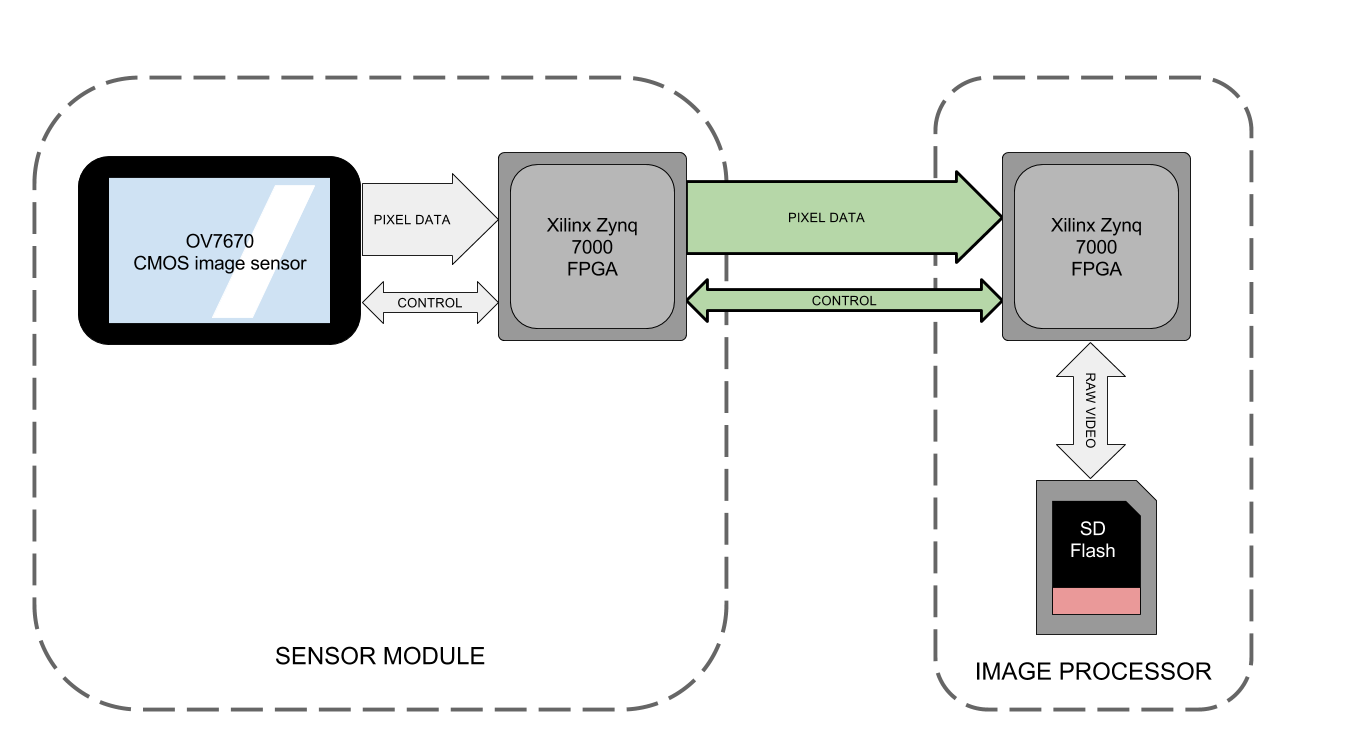
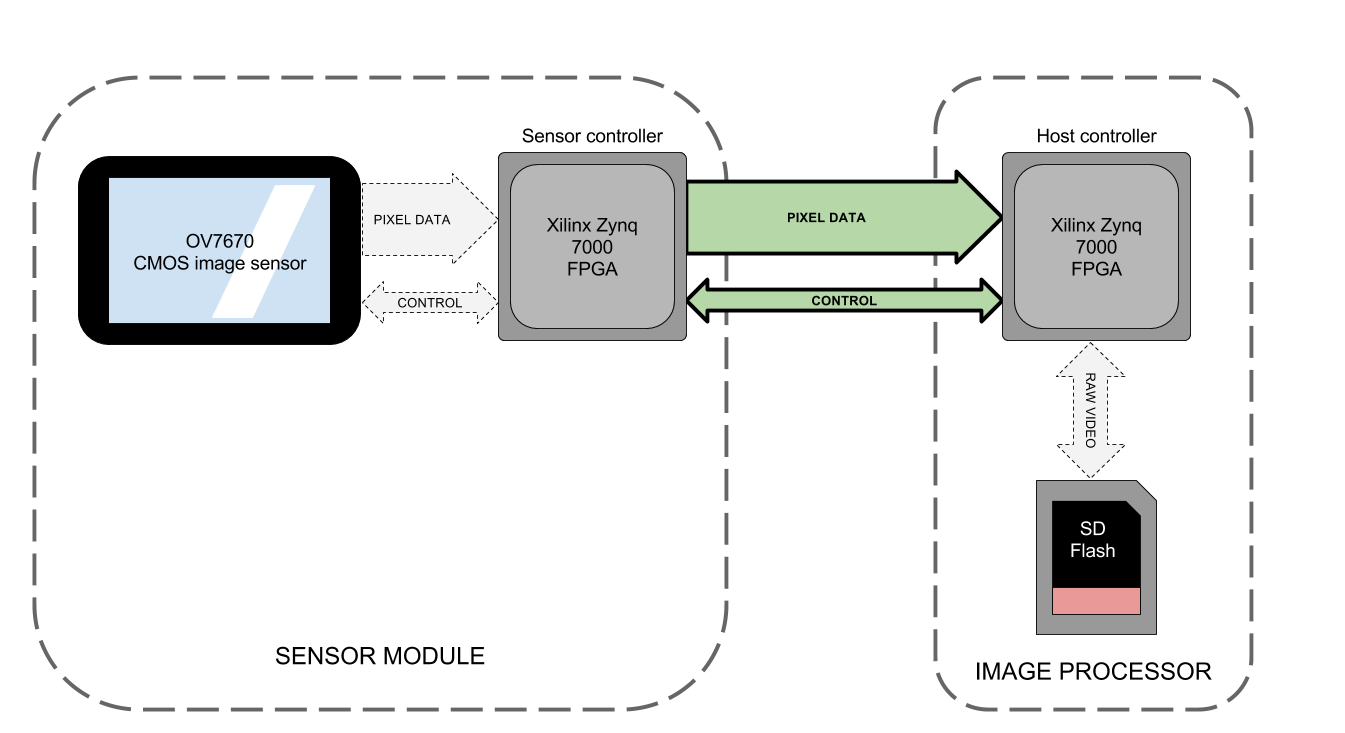
Further draft changes for review with Miles

diff --git a/interim/draft.md b/interim/draft.md
@@ -1,4 +1,4 @@
-# Contents
+# Table of Contents
 
 - Introduction
     + A brief history of camera technology
@@ -29,51 +29,45 @@
 
 # Introduction
 
-[Opening sentence...] cameras based on older film technologies have been confined to a diminishing list of niche uses, mainly in traditional film production and fine arts photography. At the heart of any digital camera lies the image sensor, which converts incident photons into electrical signals which can be digitised, processed and stored. 
-
-Modern cameras – both still-motion and video – have a multitude of upgrade options: lenses, filters and other accessories are all interchangeable, allowing for a high level of control. As one of the most important components of the system, the image sensor plays a vital role in the composure of the final image. It dictates not only the output resolution, but also light sensitivity, colour representation, frame-rate and crop-factor. In spite of its significance, only a handful of expensive cinema and medium-format cameras include interchangeable sensors; even then, these components are proprietary. Upgrading the sensor in a mainstream camera requires the purchase of an entirely new system.
+Modern cameras – both still-motion and video – feature a high level of upgradeability: lenses, filters and other accessories are all interchangeable, permitting finer control. As one of the most important components of the system, the image sensor plays a vital role in the composure of the final image. It dictates not only the output resolution, but also light sensitivity, colour representation, frame-rate and crop-factor. In spite of its significance, only a handful of expensive cinema and medium-format cameras include interchangeable sensors; even then, these components are proprietary. Upgrading the sensor in a mainstream camera requires the purchase of an entirely new system.
 
 This paper details an FPGA-based sensor-agnostic interface which can be used to connect any image sensor to any image processor, thus providing the basis for a truly modular and upgradeable camera system.
 
 ## A brief history of camera technology
 
-Modern cameras can trace their humble beginnings back to the camera obscura first described by ancient Chinese philosopher Mozi, an optical trick used to pass light from an external scene through a hole and project it on a surface [http://www.sennhs.org/ourpages/auto/2013/4/1/41446028/The%20Birth%20of%20Cameras.pdf]. In around 1816, French inventor Nicéphore Niépce managed to capture the first camera images using paper treated with silver chloride [Stokstad, Marilyn; David Cateforis; Stephen Addiss (2005). Art History (Second ed.). Upper Saddle River, New Jersey: Pearson Education. p. 964. ISBN 0-13-145527-3.]. Continuing his work, Niépce's partner Louis Daguerre developed the first conventional camera using a simple lens to focus light onto a silver-coated copper plate [http://preserve.harvard.edu/daguerreotypes/].
+Modern cameras can trace their humble beginnings back to the camera obscura first described by ancient Chinese philosopher Mozi, who discovered an optical trick to pass light from an external scene through a hole and project it on a surface.[1] In around 1816, French inventor Nicéphore Niépce managed to capture the first camera images using paper treated with silver chloride.[2] Continuing his work, Niépce's partner Louis Daguerre developed the first conventional camera using a simple lens to focus light onto a silver-coated copper plate.[3]
 
 ![Camera diagram](camera_physics_diagram.png)
 
-[Figure x] illustrates a very basic camera. Light from an external scene is passed through a lens and focussed through an aperture hole where it is inversely projected onto a photosensitive surface for capture. The focal length dictates the distance between the optical centre of the lens and the sensor when the lens is focused to infinity [http://martybugs.net/blog/blog.cgi/learning/Field-Of-View-And-More.html]. A shutter mechanism behind the aperture is used to control how much light hits the surface of the sensor, thus exposing the image. There are multiple ways to increase image exposure: expanding the aperture, holding the shutter open for longer, or increasing the ISO sensitivity of the sensor. Conversely, narrower apertures, shorter exposure times and lower sensitivities all decease the amount of light that hits the sensor, resulting in a darker image. 
+[Figure x] illustrates a very basic camera. Light from an external scene is focused by a lens and passed through an aperture hole where it is inversely projected onto a photosensitive surface for capture. The focal length dictates the distance between the optical centre of the lens and the sensor when the lens is focused to infinity.[4] A shutter mechanism behind the aperture is used to control how much light hits the surface of the sensor, thus exposing the image. There are multiple ways to increase image exposure: expanding the aperture, holding the shutter open for longer, or increasing the ISO sensitivity of the sensor. Inversely, narrower apertures, shorter exposure times and lower sensitivities all decease the amount of light that hits the sensor, resulting in a darker image. 
 
-Following the invention of the first transistor at Bell Laboratories in 1947[http://www.computerhistory.org/semiconductor/timeline/1947-invention.html], electronic devices could be dramatically reduced in size through the use of integrated circuits, paving the way for the start of the digital era. The first self-contained digital camera was developed by Steve Sasson of Eastman Kodak in 1975. Instead of using film, Sasson focused the light onto a state-of-the-art digital image sensor based on the first charge-coupled device (CCD) invented by Bell Laboratories scientists Willard Boyce and George Smith [http://www.nobelprize.org/nobel_prizes/physics/laureates/2009/popular-physicsprize2009.pdf]), the output of which was saved to a tape cassette for later viewing on a TV [https://web.archive.org/web/20130121194248/http://pluggedin.kodak.com/pluggedin/post/?id=687843].
+Following the invention of the first transistor at Bell Laboratories in 1947, electronic devices could be dramatically reduced in size through the use of integrated circuits, paving the way for the start of the digital era.[5] The first self-contained digital camera was developed by Steve Sasson of Eastman Kodak in 1975. Instead of using film, Sasson focused the light onto a state-of-the-art digital image sensor based on the first charge-coupled device (CCD) invented by Bell Laboratories scientists Willard Boyce and George Smith), the output of which was saved to a tape cassette for later viewing on a TV.[6][7]
 
-Today, there are many different camera formats available – one of the key differentiators being the area of the image sensor. A larger sensor can capture more light and thus the dynamic range is greatly increased, resulting in higher image quality [http://white.stanford.edu/~brian/papers/pdc/pixelSize_SPIE00.pdf]. This is true of both digital sensors, and their film counterparts. 
+Today, there are many different camera formats available – one of the key differentiators being the area of the image sensor. A larger sensor can capture more light and thus the dynamic range is greatly increased, resulting in higher image quality.[8] This is true of both digital sensors, and their film counterparts. 
 
 ## Motivation
 
-- High-end cameras are about control - adds extra degree of control
-- Potential to foster an open ecosystem (idealistic)
-- Market dominated by big players. Open specification allows smaller players to participate and serve smaller, more specialised markets which are too niche for big players.
+Professional camera systems are second-to-none when it comes to image quality and usability. The camera accessories market in Western Europe and the USA was worth $1.7bn in 2006, a market which owed its existence to the modularity of modern cameras. With $270 of accessories bought per Digital Single Lens Reflex (DSLR) camera on average, customisability is clearly an important feature.[9] Despite this, cameras lack customisability in one key area: IO expansion. Audio, video and storage interfaces are usually a fixed function of the camera's motherboard, and therefore non-interchangeable – users must pre-empt their requirements in order to 'futureproof' their purchase. Inevitably these performance limits will be met; if a user wishes to step beyond these limits then an entirely new camera must be purchased. While some parts will undoubtedly be at the cutting edge of technology and require semi-frequent upgrades, other parts (camera bodies, audio amplifiers) may be technologically more mature and adhere to longer progression time-scales; thus it seems wasteful and costly to re-purchase these parts when buying a new camera system.
 
-Professional camera systems are second-to-none when it comes to image quality and usability. The camera accessories market in Western Europe and the USA was worth $1.7bn in 2006, a market which owed its existence to the modularity of modern cameras. With $270 of accessories bought per Digital Single Lens Reflex (DSLR) camera on average, customisability is clearly an important feature. [Camera Accessories Market to top Euros 1.1bn in Western Europe by 2009, Understanding and Solutions, March 2007 - https://web.archive.org/web/20070604201557/http://www.uands.com/downloadarticle.asp?id=43]. Despite this, cameras lack customisability in one key area: IO expansion. Audio, video and storage interfaces are usually a fixed function of the camera's motherboard, and therefore are not interchangeable – users must pre-empt their requirements in order to 'futureproof' their purchase. Inevitably these performance limits will be met; if a user wishes to step beyond these limits then an entirely new camera must be purchased. While some parts will undoubtedly be at the cutting edge of technology and require semi-frequent upgrades, other parts (camera bodies, audio amplifiers) [ref. limit of human auditory perception] may be technologically more mature and adhere to longer progression time-scales. Thus it seems wasteful and costly to re-purchase these parts when buying a new camera system.
-
-It is not the intent of this paper however, to suggest that the concept of an interchangeable camera sensor is entirely original – a few high-end medium / large format cameras exist which support interchangeable 'sensor backs' designed by Hasselblad, Phase One and Mayima, however the interfaces are proprietary, thus limiting the user to a small handful of first-party options; additionally, the prohibitively high price (upwards of $10,000 at the time of writing) puts them far out of reach for the average professional photographer. Rather, the motivation of this project is to design an open standard for interchangeable sensors which can be freely implemented by anyone. In doing so, the basis for a truly modular and upgradable camera system is provided, with a broad range of applications including cinema, photography and computer vision. While idealistic, an open standard would benefit consumers by enabling new companies to gain a foothold serving smaller, more specialised markets which are too niche for established companies such as Nikon and Canon. Ultimately, this project aims to [......] in the future by improving expandability options and fostering openness.
+It is not the intent of this paper however, to suggest that the concept of an interchangeable camera sensor is entirely original – a few high-end medium / large format cameras – designed by Hasselblad, Phase One and Mayima – exist which support interchangeable 'sensor backs' , however the interfaces are proprietary, thus limiting the user to a small handful of first-party options. Additionally, the prohibitively high price (upwards of $10,000 at the time of writing) puts them far out of reach for the average professional photographer. Rather, the motivation of this project is to design an open standard for interchangeable sensors which can be freely implemented by anyone. In doing so, the basis for a truly modular and upgradable camera system is provided, with a broad range of applications including cinema, photography and computer vision. While idealistic, an open standard would benefit consumers by enabling new companies to gain a foothold serving smaller, more specialised markets which are too niche for established companies such as Nikon and Canon. Ultimately, this project aims to improve the camera selection available to consumers in the future by improving expandability options and fostering openness.
 
 ## Pre-requisite concepts
 
 ### CCD and CMOS sensor technologies
 
-The sensors themselves fall into one of two categories depending on technology used: Charge-coupled Devices (CCD) and Complementary Metal-Oxide Semiconductors (CMOS). While both use an array of photosites to collect charge from incident photons during an exposure time, the readout and analogue-to-digital conversion process differs for each. During readout time, CCDs sequentially shift the accumulated charges into horizontal and vertical readout registers where they are transferred to a chip-level output amplifier and analogue-to-digital converter where the binary bitstream is generated. CCD image sensors can are capable of very low noise and high sensitivity due to the use optimised photosites; this made them a very popular choice for high-quality cameras.
+The sensors themselves fall into one of two categories depending on technology used: Charge-coupled Devices (CCD) and Complementary Metal-Oxide Semiconductors (CMOS). While both use an array of photosites to collect charge from incident photons during exposure time, the readout and analogue-to-digital conversion process differs for each. During readout time, CCDs sequentially shift the accumulated charges into horizontal and vertical readout registers where they are transferred to a chip-level output amplifier and analogue-to-digital converter to generate a binary bitstream. CCD image sensors are capable of very low noise and high sensitivity due to the use optimised photosites; this made them a very popular choice for applications demanding high image quality.
 
-Unlike CCDs, which rely on a very specialised fabrication process, CMOS sensors can be manufactured using traditional CMOS processes, benefiting greatly from the associated economies of scale. Active Pixel Sensors (APS), the most common form of CMOS sensor, differ from CCDs in that each photosite contains a dedicated amplifier, meaning that the light-induced voltages can be driven directly to the row and column decoders for digitisation. Because of the CMOS fabrication process, other camera functions can also be integrated onto the same chip, cutting both the cost and size of the device. [Ge, X., 2012. The design of a global shutter CMOS image sensor in 110nm technology (Doctoral dissertation, TU Delft, Delft University of Technology).]  This level of integration, and the faster speeds of parallel readout processing have meant that CMOS sensors have seen a recent surge in popularity, and are forecast to account for 85% of the total image sensor market in 2017. [http://www.icinsights.com/data/articles/documents/526.pdf]
+Unlike CCDs, which rely on a very specialised fabrication process, CMOS sensors can be manufactured using traditional CMOS processes, benefiting greatly from the associated economies of scale. Active Pixel Sensors (APS), the most common form of CMOS sensor, differ from CCDs in that each photosite contains a dedicated amplifier, meaning that the light-induced voltages can be driven directly to the row and column decoders for digitisation. Because of the CMOS fabrication process, other camera functions can also be integrated onto the same chip, cutting both the cost and size of the device.[10]  This level of integration, and the faster speeds of parallel readout processing have meant that CMOS sensors have seen a recent surge in popularity, and are forecast to account for 85% of the total image sensor market in 2017.[11]
 
-Photosites can only measure light intensity, not wavelength, resulting in greyscale images. By placing a coloured filter in front of each photosite, it is possible to only let light of a certain colour through [http://www.google.co.uk/patents/US3971065]. Given the fixed pattern of the colour filter array (CFA), it is possible to generate a full-colour image using a demosaicing algorithm, the simplest of which is bilinear interpolation [http://research.microsoft.com/pubs/102068/Demosaicing_ICASSP04.pdf], to calculate the red, green and blue intensities for each pixel. One such CFA, the Bayer filter, contains twice as many green elements as red and blue to mimic the physiology of the human eye, as illustrated in [figure x].
+Photosites can only measure light intensity, not wavelength, producing greyscale images. By placing a coloured filter in front of each photosite, it is possible to only let light of a certain wavelength through.[12] Given the fixed pattern of the colour filter array (CFA), it is possible to generate a full-colour image using a demosaicing algorithm, the simplest of which is bilinear interpolation, to calculate the red, green and blue intensities for each pixel. One such CFA, the Bayer filter, contains twice as many green elements as red and blue to mimic the physiology of the human eye, as illustrated in [figure x].[13]
 
 ![Bayer filter](https://upload.wikimedia.org/wikipedia/commons/3/37/Bayer_pattern_on_sensor.svg)
 
 ### High-speed data transmission
 
-While sensors can capture both still images and video, this project mainly concerns the latter due to its resource-intensive nature. A recent study found that 75% of households in the United States had a high-definition television [http://www.leichtmanresearch.com/press/020813release.pdf]. The popularity of HD content makes it important to consider how bandwidth requirements increase with larger resolutions. An uncompressed 24-bit colour 1080p video at 24fps has a bitrate of almost 1.2 Gbps, as calculated in [equation x], well within the range where signal integrity becomes important.
+While sensors can capture both still images and video, this project mainly concerns the latter due to its resource-intensive nature. A recent study found that 75% of households in the United States had a high-definition television.[14] The popularity of HD content makes it important to consider how bandwidth requirements increase with larger resolutions. An uncompressed 24-bit colour 1080p video at 24fps has a bitrate of almost 1.2 Gbps, as calculated in [equation x], well within the range where signal integrity becomes important.
 
-When transmitting a high-frequency signal between two devices, careful attention must be applied to many aspects of the design to ensure that the signal integrity is preserved. The basic premise of signal integrity is covered here, however [section x] will cover the issue in greater depth. With low-frequency signals, a wire or PCB trace can be modelled as an ideal circuit, in that it has no resistance, capacitance or inductance. As the frequency increases however, so-called transmission line effects are prominent and the AC characteristics of the wire become very important. If there is a mismatch between the source, line and receiver impedances then the transmitted signal will not be fully absorbed at the receiver, resulting in any excess energy rebounding between source and receiver repeatedly until it has been fully absorbed. Due to superposition, the reflected waves will cause ringing and other signal integrity issues that will result in reduced signal quality. If the issue is severe enough, the receiver cannot correctly interpret the signal and bit errors will occur. Parallel wires can also cause mutual inductance problems whereby the magnetic field generated by current travelling through one wire, will induce a current in the adjacent wire. Similarly, mutual capacitance is caused by the coupling of the two electric fields. These issues can be mitigated by taking care to ensure that impedance is properly controlled and PCB traces are placed with care when designing circuits. [https://www.altera.com/content/dam/altera-www/global/en_US/pdfs/literature/wp/wp_sgnlntgry.pdf]
+When transmitting a high-frequency signal between two devices, close attention must be paid to many aspects of the design to ensure that the signal integrity is preserved. The basic premise of signal integrity is covered here, however [section x] will cover the issue in greater depth. With low-frequency signals, a wire or PCB trace can be modelled as an ideal circuit, without resistance, capacitance or inductance. As the frequency increases however, so-called transmission line effects are prominent and the AC characteristics of the wire become very important. If there is a mismatch between the source, line and receiver impedances then the transmitted signal will not be fully absorbed at the load, resulting in any excess energy rebounding between source and receiver repeatedly until it has been fully absorbed. Due to superposition, the reflected waves will cause ringing and other signal integrity issues that reduce signal quality. If the issue is severe enough, the receiver cannot correctly interpret the signal and bit errors will occur. Parallel wires can also cause mutual inductance problems whereby the magnetic field generated by current travelling through one wire, will induce a current in the adjacent wire. Similarly, mutual capacitance is caused by the coupling of the two electric fields. These issues can be mitigated by taking care to ensure that impedance is properly controlled and PCB traces are placed with care when designing circuits.[15]
 
 [Table x] shows a list of existing protocols / interfaces for transmitting image data. 
 
@@ -84,7 +78,7 @@ Camera Link     N/A         Camera Link 6.8 Gbps    Serial      Medium
 MIPI CSI-3      M-PHY       MIPI        23.2 Gbps   Serial      Medium
 HDMI 2.0        N/A         HDMI        18 Gbps     Serial      Low / Medium 
 
-[http://www.controlvision.co.nz/newsletters/2013/08/Basler_Interface_Comparsion.pdf http://www.arrowdevices.com/blog/mipi-csi-3-a-game-changer-for-future-camera-technology/ http://www.hdmi.org/manufacturer/hdmi_2_0/hdmi_2_0_faq.aspx]
+[16][17][18]
 
 ## Project testing platform
 
@@ -96,11 +90,11 @@ The design of a full camera system is beyond the scope of this project, however 
 
 ### Introduction to test system architecture
 
-The test system detailed in [figure x] makes extensive use of field-programmable-gate-arrays (FPGAs) and is mainly based around the Zynq platform from Xilinx – a programmable system-on-chip (SoC) with an embedded ARM core. FPGAs are used instead of microcontrollers for several reasons, primarily because of the far greater flexibility [....] FPGAs are massively parallel and contain highly programmable logic as well as multi-gigabit transceivers. Microcontrollers on the other hand, rely on fixed peripherals for a limited range of interface support; those which are not supported by the built-in peripherals must utilise bit-banging – the process of using software to control the timing, synchronisation and state of IO ports to transmit or receive data. Microcontrollers simply lack the horsepower and resources to bit-bang a custom high-speed serial interface. 
+The test system detailed in [figure x] makes extensive use of field-programmable-gate-arrays (FPGAs) and is mainly based around the Zynq platform from Xilinx – a programmable system-on-chip (SoC) with an embedded ARM core. FPGAs are used instead of microcontrollers for several reasons, primarily because of the far greater flexibility of programmable logic, but also due to the high number of IO pins and throughput capabilities required to interface with high-resolution image sensors. FPGAs are massively parallel and contain reconfigurable logic as well as multi-gigabit transceivers. Microcontrollers on the other hand, rely on fixed peripherals for a limited range of interface support; those which are not supported by the built-in peripherals must utilise bit-banging – the process of using software to control the timing, synchronisation and state of IO ports to transmit or receive data. Microcontrollers simply lack the horsepower and resources to bit-bang a custom high-speed serial interface. 
 
 ![Block diagram overview](block_diagram_overview.png)
 
-The system in [figure x] consists of an OmniVision OV7670 image sensor connected to a parallel input on a Xilinx Zynq 7000 FPGA acting as sensor controller. Pixel data is pulled from the sensor by the controller and placed into a RAM framebuffer where it can be retrieved by another part of the controller and transmitted across the interface. Optionally the controller can also generate a custom test pattern to be transmitted instead of the real sensor output for the purpose of system testing and benchmarking across a range of resolutions and framerates. These two components form the *sensor module*, which is designed to be interchangeable for other sensor-controller pairs. The design of the interface highlighted in green forms the main part of this project. 
+The system in [figure x] consists of an OmniVision OV7670 image sensor connected to a set of parallel inputs on a Xilinx Zynq 7000 FPGA acting as sensor controller. Pixel data is pulled from the sensor by the controller and placed into a RAM framebuffer where it can be retrieved by another part of the controller and transmitted across the interface. Optionally the controller can also generate a custom test pattern to be transmitted instead of the real sensor output for the purpose of system testing and benchmarking across a range of resolutions and framerates. These two components form the *sensor module*, which is designed to be interchangeable with other sensor-controller pairs. The design of the interface highlighted in bold forms the main part of this project. 
 
 On the master side of the interface is a second Zynq 7000 FPGA acting as the host controller. Pixel data going over the interface is received and decoded by the host before being stored in a framebuffer in RAM. The embedded ARM core inside the host forms the processing system, which takes each from from RAM and serialises it into a RAW video stream in flash memory for playback on a computer. These components form the *image processor*, which is capable of communicating with any connected *sensor module*.
 
@@ -112,5 +106,60 @@ Pixel depth: 8 bits
 Maximum throughput: 1.2 Gbps
 Output format: SD card
 
-The specifications in [table x] where decided after surveying best-selling cameras across several markets, consisting of cinema cameras, single-lens-reflex cameras (DSLRs) and computer-vision / industrial cameras This survey is visualised in [figure x].
+The specifications in [table x] were decided after surveying best-selling cameras across several markets, consisting of cinema cameras, single-lens-reflex cameras (DSLRs) and computer-vision / industrial cameras This survey is visualised in [appendix figure x].
 
+# Bibliography
+
+1. http://www.sennhs.org/ourpages/auto/2013/4/1/41446028/The%20Birth%20of%20Cameras.pdf
+2. Stokstad, Marilyn; David Cateforis; Stephen Addiss (2005). Art History (Second ed.). Upper Saddle River, New Jersey: Pearson Education. p. 964. ISBN 0-13-145527-3.
+3. http://preserve.harvard.edu/daguerreotypes
+4. http://martybugs.net/blog/blog.cgi/learning/Field-Of-View-And-More.html
+5. http://www.computerhistory.org/semiconductor/timeline/1947-invention.html
+6. http://www.nobelprize.org/nobel_prizes/physics/laureates/2009/popular-physicsprize2009.pdf
+7. https://web.archive.org/web/20130121194248/http://pluggedin.kodak.com/pluggedin/post/?id=687843
+8. http://white.stanford.edu/%7Ebrian/papers/pdc/pixelSize_SPIE00.pdf
+9. Camera Accessories Market to top Euros 1.1bn in Western Europe by 2009, Understanding and Solutions, March 2007 - https://web.archive.org/web/20070604201557/http://www.uands.com/downloadarticle.asp?id=43
+10. Ge, X., 2012. The design of a global shutter CMOS image sensor in 110nm technology (Doctoral dissertation, TU Delft, Delft University of Technology).
+11. http://www.icinsights.com/data/articles/documents/526.pdf
+12. http://www.google.co.uk/patents/US3971065
+13. http://research.microsoft.com/pubs/102068/Demosaicing_ICASSP04.pdf
+14. http://www.leichtmanresearch.com/press/020813release.pdf
+15. https://www.altera.com/content/dam/altera-www/global/en_US/pdfs/literature/wp/wp_sgnlntgry.pdf
+16. http://www.controlvision.co.nz/newsletters/2013/08/Basler_Interface_Comparsion.pdf
+17. http://www.arrowdevices.com/blog/mipi-csi-3-a-game-changer-for-future-camera-technology/
+18. http://www.hdmi.org/manufacturer/hdmi_2_0/hdmi_2_0_faq.aspx
+
+# Summary of progress
+
+The first milestone for the project was to build a system to capture frames from a low-resolution image sensor in order to get comfortable using FPGAs for data transfer and image processing. OmniVision's low-cost OV7670 sensor was chosen for its simple operation and the abundance of reference material available due to its popularity in the hobbyist community. The OV7670 was connected to a Xilinx Spartan-3E FPGA development board provided by the electronics lab.
+
+Considerable effort was put into building a solid toolchain and efficient workflow before starting the design process. It was decided that investing time into setting up an automated test framework would pay off later in the time saved debugging and chasing down regressions. Much like *unit tests* are used in software development, hardware designers write *testbenches* to ensure that each aspect of the design behaves as intended. Testbenches are normally written in the same language as the design itself (usually Verilog, SystemVerilog or VHDL), however general-purpose programming in a hardware description language (HDL) is tedious and the emphasis on processing image data necessitated a higher-level language like Python. As such, the testbenches are written using the MyHDL Python library, which enables hardware designs to be written in Python and compiled to Verilog or VHDL for synthesis. Its main however, is that it can interact with the Icarus Verilog simulator used for this project. This means that testbench code can be written in Python to drive the design under test (DUT) written in Verilog. As well as simplifying testbench development, Python has the advantage of being compatible with many automated testing environments. The final setup consisted of using Verilog to design the hardware, Python, MyHDL and Nose to write testbenches / unit tests, Icarus to simulate the design and a simple Makefile to tie everything together. Additionally, Travis Continuous Integration was used to automatically test the code every time a commit was staged to the project repository on GitHub, sending a notification email if the change broke anything. [Figure x] shows the simulation output of the `ov7670_capture` module being run with Icarus, viewed in the GtkWave waveform viewer. The `d` and `href` signals correspond to a horizontal line of pixels generated by the testbench. The captured test pattern is also depicted.
+
+![OV7670 waveform](ov7670_capture_waveform.png)
+![QVGA test pattern](qvga_test_pattern.png)
+
+Once the development workflow was finalised, the OV7670 interfacing code was designed and tested one module at a time. The objective for the first milestone being to grab a continuous stream of frames from the OV7670 sensor and display them on a VGA monitor. [Figure x] shows the overall system architecture as a collection of interconnected Verilog modules.
+
+![OV7670 Basys VGA test](ov7670_placeholder.png)
+
+Initially, the intention was to pull the pixel data from the sensor and push it straight out onto the VGA port. Unfortunately the image sensor and VGA port run at different frequencies and the clocks are derived from two separate sources. When connecting two blocks with different clock frequencies or phases, one must be very careful to avoid clock domain crossing (CDC) issues which can lead to instabilities. Instead, the FPGA's internal block RAM was used to create a framebuffer to safely transfer the data across the two clock domains, however the Spartan-3E's severely limited resources required certain sacrifices to be made to image quality. While the Spartan-3E part contains 216K bits of block RAM, a 640x480 RAW image requires 2.457M bits, thus it is too large to fit inside the FPGA. To get the image to fit with the limited resources available it was necessary to reduce the resolution. A further complication was that the image scaling circuitry inside the OV7670 only supports certain resolutions in certain modes. The mode which produced RAW bayer data (instead of RGB or YUV) did not support the lowest resolution, so QVGA (320x240) resolution was used, and the bit depth was reduced to 2 bits in order to fit the image inside block RAM, further diminishing the image quality.
+
+The OV7670 image sensor contains a set of internal registers to configure all aspects of the device's operation. In order to set the output resolution and format the FPGA had to initialise these registers using the SCCB protocol – an I2C clone. Rather than invent the wheel again, an SCCB controller written for a similar project was used to communicated with the image sensor. Using a combination of the sensor datasheet, implementation guide and various community references, the correct register values to produce a 320x240 RAW bayer image were identified. This was particularly frustrating as the official documentation contradicts itself in a few places, making it hard to determine the correct settings.
+
+Following the successful simulation of each module, an IP block was generated for the framebuffer, and the design was imported into Xilinx's ISE tool for synthesis. After the synthesis netlist was generated, pre-routing pin constraints were added to specify how the design was to connect with the IO ports on the FPGA. The last step was to perform the place-and-route process to generate a *bitfile* which was loaded onto the device.
+
+Currently the design is loaded onto the hardware but lacks any form of testing. The immediate next steps are to start debugging the design on hardware and fix any issues. This will lead nicely into the design of the sensor controller to host controller interface for the next part of the project.
+
+# Revised workplan
+
+- Pick appropriate mainboard FPGA / microprocessor combo
+- Design and fabricate any interposer boards to connect sensor module (sensor + intermediary FPGA) and mainboard (acquisition FPGA + microprocessor)
+- Write interface blocks for master and slave and clock data into memory
+- Use test pattern generator to measure maximum interface bandwidth
+- Build custom Linux kernel for microprocessor
+- Access framebuffer from Linux and save to storage medium
+- Write final report and presentation
+
+# Risk assessment
+
+...
